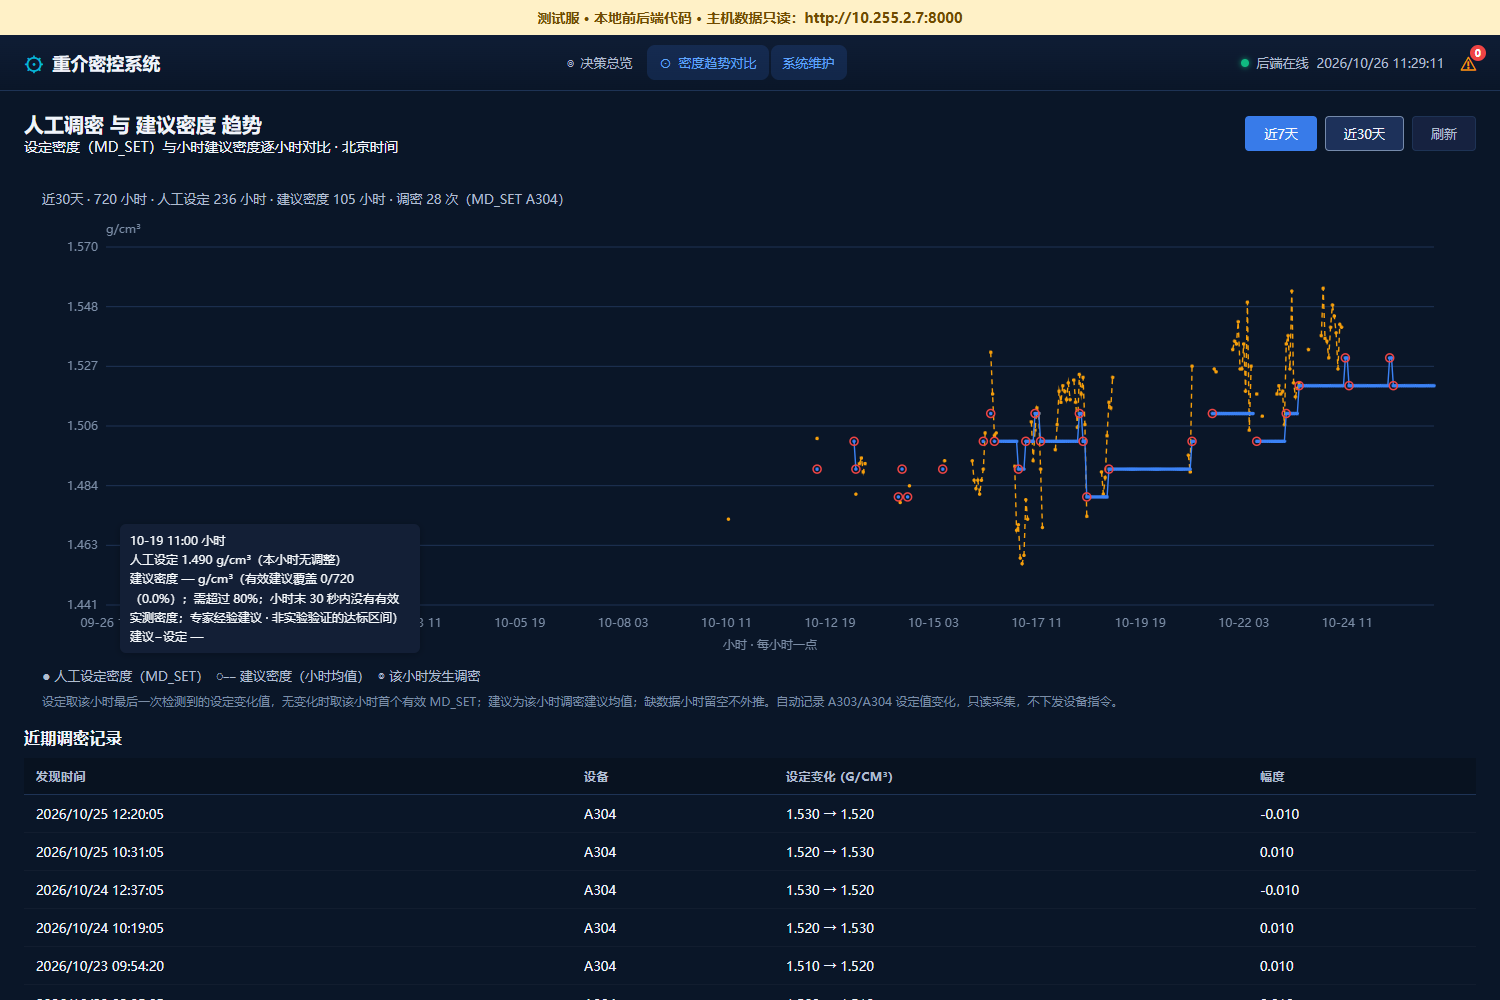
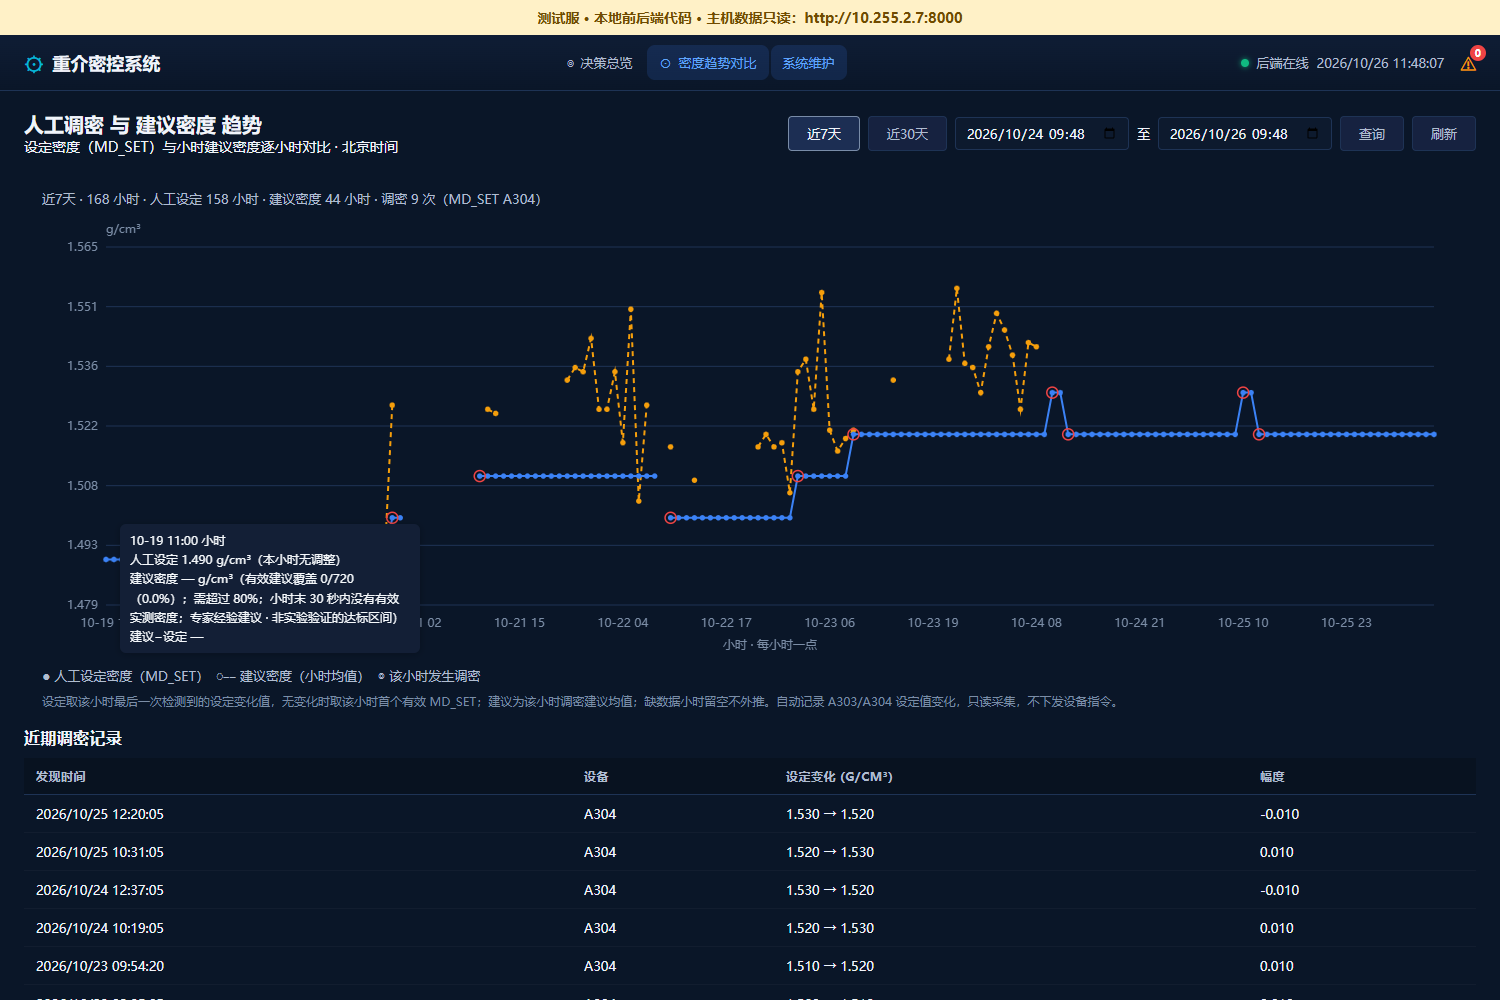
feat: custom time range for the density trend page
Add start/end pickers beside the rolling 7/30-day presets. The endpoint
accepts start/end (tz-aware, minute precision): aligned down to whole
hours, clamped to the past, capped at 90 days; presets and custom mode
switch cleanly, and the caption reports the exact aligned window.

Verified end-to-end on the live laptop service: custom 48-hour query,
preset round-trip, plus pytest coverage for alignment, clamping,
one-sided/naive/reversed/over-cap rejections.

diff --git a/frontend/js/decision-density-trend.js b/frontend/js/decision-density-trend.js
@@ -1,6 +1,6 @@
 /* Dedicated page: operator setpoint vs suggested density, hourly point-line chart. */
 const DensityTrendPage = {
-    hours: 168, inited: false, seq: 0, series: null, meta: null, actions: null,
+    hours: 168, range: null, inited: false, seq: 0, series: null, meta: null, actions: null,
     seriesOf(items) {
         // Pure shape for the point-line chart: null keeps the gap visible.
         return (items || []).map((item, index) => ({index, label: item.label,
@@ -19,10 +19,18 @@ const DensityTrendPage = {
         this.inited = true;
         document.querySelectorAll('#density-trend-ranges [data-t-range]').forEach(button =>
             button.addEventListener('click', () => {
-                if (Number(button.dataset.tRange) === this.hours) return;
+                if (Number(button.dataset.tRange) === this.hours && !this.range) return;
                 this.hours = Number(button.dataset.tRange);
+                this.range = null;
                 this.refresh();
             }));
+        document.getElementById('density-trend-query')?.addEventListener('click', () => {
+            const start = document.getElementById('density-trend-start').value;
+            const end = document.getElementById('density-trend-end').value;
+            if (!start || !end) { this.status('自定义范围请同时选择开始和结束时间。'); return; }
+            this.range = {start: start + ':00+08:00', end: end + ':00+08:00'};
+            this.refresh();
+        });
         document.getElementById('density-trend-refresh')?.addEventListener('click', () => this.refresh());
         this.resizeObserver = new ResizeObserver(() => { if (this.series) this.draw(); });
         this.resizeObserver.observe(document.getElementById('density-trend-plot'));
@@ -35,8 +43,11 @@ const DensityTrendPage = {
         const seq = ++this.seq;
         this.status('正在读取趋势数据…');
         try {
+            const path = this.range
+                ? '/density-trend?start=' + encodeURIComponent(this.range.start) + '&end=' + encodeURIComponent(this.range.end)
+                : '/density-trend?limit=' + this.hours;
             const [trend, actions] = await Promise.all([
-                Api.decisionEvidence('/density-trend?limit=' + this.hours),
+                Api.decisionEvidence(path),
                 Api.decisionEvidence('/actions?limit=50').catch(() => null),
             ]);
             if (seq !== this.seq) return;
@@ -45,15 +56,17 @@ const DensityTrendPage = {
             this.actions = actions;
             this.status('');
             document.querySelectorAll('#density-trend-ranges [data-t-range]').forEach(button => {
-                const selected = Number(button.dataset.tRange) === this.hours;
+                const selected = !this.range && Number(button.dataset.tRange) === this.hours;
                 button.classList.toggle('btn-primary', selected);
                 button.setAttribute('aria-pressed', String(selected));
             });
             const set = this.series.filter(s => s.setpoint !== null).length;
             const advice = this.series.filter(s => s.suggested !== null).length;
-            const label = this.hours === 168 ? '近7天' : '近30天';
+            const label = this.range
+                ? `自定义 ${this.series.length} 小时（${new Date(trend.period.start).toLocaleString('zh-CN', {timeZone: 'Asia/Shanghai', month: '2-digit', day: '2-digit', hour: '2-digit', hourCycle: 'h23', minute: '2-digit'})} 至 ${new Date(trend.period.end).toLocaleString('zh-CN', {timeZone: 'Asia/Shanghai', month: '2-digit', day: '2-digit', hour: '2-digit', hourCycle: 'h23', minute: '2-digit'})}）`
+                : `${this.hours === 168 ? '近7天' : '近30天'} · ${this.series.length} 小时`;
             document.getElementById('density-trend-caption').textContent =
-                `${label} · ${this.series.length} 小时 · 人工设定 ${set} 小时 · 建议密度 ${advice} 小时 · 调密 ${trend.total_actions} 次（${trend.channel === '全部通道' ? '全部通道' : 'MD_SET ' + trend.channel}）`;
+                `${label} · 人工设定 ${set} 小时 · 建议密度 ${advice} 小时 · 调密 ${trend.total_actions} 次（${trend.channel === '全部通道' ? '全部通道' : 'MD_SET ' + trend.channel}）`;
             this.renderActions();
             this.draw();
         } catch (error) {

diff --git a/backend/scripts/verify_density_trend_browser.js b/backend/scripts/verify_density_trend_browser.js
@@ -61,6 +61,19 @@ const url = process.env.DMCS_VERIFY_URL || 'http://127.0.0.1:8000';
         await page.locator('[data-t-range="720"]').click();
         await page.waitForFunction(() => (document.getElementById('density-trend-canvas')._hits || []).length === 720);
         assert.match(await page.locator('#density-trend-caption').innerText(), /近30天 · 720 小时/);
+        // Custom range: last 48 complete hours via the pickers.
+        await page.evaluate(() => {
+            const local = offset => new Date(Date.now() + offset + 8 * 3600000)
+                .toISOString().slice(0, 16);
+            document.getElementById('density-trend-start').value = local(-50 * 3600000);
+            document.getElementById('density-trend-end').value = local(-2 * 3600000);
+        });
+        await page.locator('#density-trend-query').click();
+        await page.waitForFunction(() => (document.getElementById('density-trend-canvas')._hits || []).length === 48);
+        assert.match(await page.locator('#density-trend-caption').innerText(), /自定义 48 小时/);
+        // A preset click returns to rolling windows.
+        await page.locator('[data-t-range="168"]').click();
+        await page.waitForFunction(() => (document.getElementById('density-trend-canvas')._hits || []).length === 168);
         await page.screenshot({path:path.join(output,'density-trend-page.png'),fullPage:false});
         // The tracking dialog must be restored: no chart inside it.
         await page.locator('.nav-item[data-page="page-decision"]').click();

diff --git a/frontend/index.html b/frontend/index.html
@@ -481,6 +481,10 @@
                     <div class="filter-group" id="density-trend-ranges">
                         <button type="button" class="btn" data-t-range="168" aria-pressed="true">近7天</button>
                         <button type="button" class="btn" data-t-range="720" aria-pressed="false">近30天</button>
+                        <input type="datetime-local" id="density-trend-start" step="60" aria-label="自定义开始时间" title="自定义开始时间（北京时间）">
+                        <span>至</span>
+                        <input type="datetime-local" id="density-trend-end" step="60" aria-label="自定义结束时间" title="自定义结束时间（北京时间）">
+                        <button type="button" class="btn" id="density-trend-query">查询</button>
                         <button type="button" class="btn" id="density-trend-refresh">刷新</button>
                     </div>
                 </div>

diff --git a/backend/app/decision_hourly/router.py b/backend/app/decision_hourly/router.py
@@ -107,7 +107,8 @@ def actions(limit:int=Query(20,ge=1,le=100),offset:int=Query(0,ge=0,le=100000),d
 
 
 @router.get('/density-trend')
-def density_trend(limit:int=Query(168,ge=6,le=720),db:Session=Depends(get_db)):
+def density_trend(limit:int=Query(168,ge=6,le=720),start:datetime|None=Query(None),
+        end:datetime|None=Query(None),db:Session=Depends(get_db)):
     """Hourly operator setpoint vs suggested density for the trend chart.
 
     Setpoint standing in an hour = the last tracked change's after value, else
@@ -115,18 +116,40 @@ def density_trend(limit:int=Query(168,ge=6,le=720),db:Session=Depends(get_db)):
     Hours with neither source stay empty instead of fabricating a carried value.
     Only the required JSON fields are projected: full hour snapshots would exceed
     the read-only proxy's result limit over 30-day windows.
+    Without start/end a rolling window of `limit` hours back from now is used;
+    a custom range is aligned to whole hours, clamped to the past and capped.
     """
     import json
     now=utc_now()
-    end=now.astimezone(LOCAL).replace(minute=0,second=0,microsecond=0)
-    start=end-timedelta(hours=limit)
+    current_end=now.astimezone(LOCAL).replace(minute=0,second=0,microsecond=0)
+    if start is None and end is None:
+        end_hour=current_end
+        start_hour=end_hour-timedelta(hours=limit)
+    else:
+        if start is None or end is None:
+            raise HTTPException(422,'自定义范围请同时提供开始和结束时间')
+        for stamp,name in ((start,'开始'),(end,'结束')):
+            if stamp.tzinfo is None:
+                raise HTTPException(422,f'{name}时间须包含时区')
+            if stamp.second or stamp.microsecond:
+                raise HTTPException(422,f'{name}时间最小单位为分钟')
+        start_hour=start.astimezone(LOCAL).replace(minute=0,second=0,microsecond=0)
+        end_hour=end.astimezone(LOCAL).replace(minute=0,second=0,microsecond=0)
+        if end_hour<=start_hour:
+            raise HTTPException(422,'结束时间须晚于开始时间（按小时对齐后至少 1 小时）')
+        if end_hour-start_hour>timedelta(days=90):
+            raise HTTPException(422,'自定义范围最长 90 天，请缩小时间段')
+        if end_hour>current_end:
+            end_hour=current_end
+        if end_hour<=start_hour:
+            raise HTTPException(422,'所选范围尚未过去，暂无可统计的完整小时')
     hours={r[0]:(json.loads(r[1]) if r[1] else {}) for r in db.execute(select(
         DecisionCycleHour.start,DecisionCycleHour.snapshot['suggested_density'].as_string()).where(
-        DecisionCycleHour.start>=iso_time(start),DecisionCycleHour.start<iso_time(end)))}
+        DecisionCycleHour.start>=iso_time(start_hour),DecisionCycleHour.start<iso_time(end_hour)))}
     anchors={r[0]:dict(value=r[1],components=json.loads(r[2]) if r[2] else {}) for r in db.execute(select(
         GptHourlyDensityAnchor.start,GptHourlyDensityAnchor.snapshot['basis']['value'].as_float(),
         GptHourlyDensityAnchor.snapshot['basis']['components'].as_string()).where(
-        GptHourlyDensityAnchor.start>=iso_time(start),GptHourlyDensityAnchor.start<iso_time(end)))}
+        GptHourlyDensityAnchor.start>=iso_time(start_hour),GptHourlyDensityAnchor.start<iso_time(end_hour)))}
     channel=None
     for key in sorted(anchors,reverse=True):
         parts=anchors[key]['components']
@@ -141,14 +164,14 @@ def density_trend(limit:int=Query(168,ge=6,le=720),db:Session=Depends(get_db)):
     for detected,action_channel,before,after in db.execute(select(DensityAction.detected_at,DensityAction.channel,
             DensityAction.evidence['before']['pair']['setpoint']['value'].as_float(),
             DensityAction.evidence['after']['pair']['setpoint']['value'].as_float()).where(
-            DensityAction.detected_at>=iso_time(start),DensityAction.detected_at<iso_time(end)).order_by(DensityAction.detected_at)):
+            DensityAction.detected_at>=iso_time(start_hour),DensityAction.detected_at<iso_time(end_hour)).order_by(DensityAction.detected_at)):
         if channel and action_channel!=channel:
             continue
         stamp=business_time(detected).replace(minute=0,second=0,microsecond=0)
         by_hour.setdefault(iso_time(stamp),[]).append(dict(at=detected,channel=action_channel,before=before,after=after))
     items=[]
-    cursor=start
-    while cursor<end:
+    cursor=start_hour
+    while cursor<end_hour:
         key=iso_time(cursor)
         acts=by_hour.get(key,[])
         anchor=anchors.get(key)
@@ -167,7 +190,7 @@ def density_trend(limit:int=Query(168,ge=6,le=720),db:Session=Depends(get_db)):
             actions=acts))
         cursor+=timedelta(hours=1)
     return dict(policy='density-trend-v1',generated_at=iso_time(now),
-        channel=channel or '全部通道',period=dict(start=iso_time(start),end=iso_time(end)),
+        channel=channel or '全部通道',period=dict(start=iso_time(start_hour),end=iso_time(end_hour)),
         total_actions=sum(len(acts) for acts in by_hour.values()),items=items)
 
 

diff --git a/backend/tests/test_decision_evidence.py b/backend/tests/test_decision_evidence.py
@@ -255,3 +255,30 @@ def test_density_trend_pairs_manual_setpoint_with_suggested_advice(client,sessio
     month=client.get('/api/v1/decision/evidence/density-trend',params={'limit':720})
     assert month.status_code==200 and month.json()['items'].__len__()==720
     assert client.get('/api/v1/decision/evidence/density-trend',params={'limit':721}).status_code==422
+
+
+def test_density_trend_custom_range_aligns_and_validates(client,sessions,monkeypatch):
+    monkeypatch.setattr('app.decision_hourly.router.utc_now',lambda:HOUR)
+    with sessions.begin() as db:
+        seed_anchor(db,START,1.48)
+        db.add(DecisionCycleHour(start=iso_time(START),end=iso_time(HOUR),generated_at=iso_time(HOUR),
+            snapshot=dict(suggested_density=dict(value=1.5,status='calculated',reason='均值'))))
+    custom=client.get('/api/v1/decision/evidence/density-trend',params={
+        'start':iso_time(START+timedelta(minutes=30)),'end':iso_time(HOUR+timedelta(minutes=90))})
+    assert custom.status_code==200,custom.text
+    result=custom.json()
+    # Minutes floor to hour boundaries; the future part clamps to the current hour.
+    assert result['items'].__len__()==1 and result['items'][0]['start']==iso_time(START)
+    assert result['period']==dict(start=iso_time(START),end=iso_time(HOUR))
+    assert result['items'][0]['setpoint']['value']==1.48 and result['items'][0]['suggested']['value']==1.5
+    only_start=client.get('/api/v1/decision/evidence/density-trend',params={'start':iso_time(START)})
+    assert only_start.status_code==422 and '同时' in only_start.json()['detail']
+    naive=client.get('/api/v1/decision/evidence/density-trend',params={
+        'start':'2026-10-08T01:00:00','end':iso_time(HOUR)})
+    assert naive.status_code==422
+    reversed_range=client.get('/api/v1/decision/evidence/density-trend',params={
+        'start':iso_time(HOUR),'end':iso_time(START)})
+    assert reversed_range.status_code==422
+    too_long=client.get('/api/v1/decision/evidence/density-trend',params={
+        'start':iso_time(HOUR-timedelta(days=91)),'end':iso_time(HOUR)})
+    assert too_long.status_code==422 and '90' in too_long.json()['detail']
